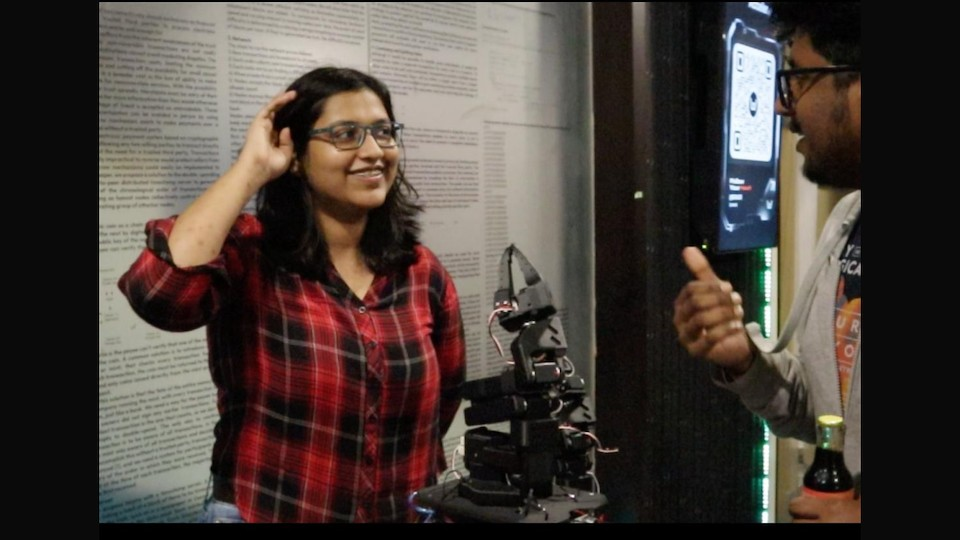
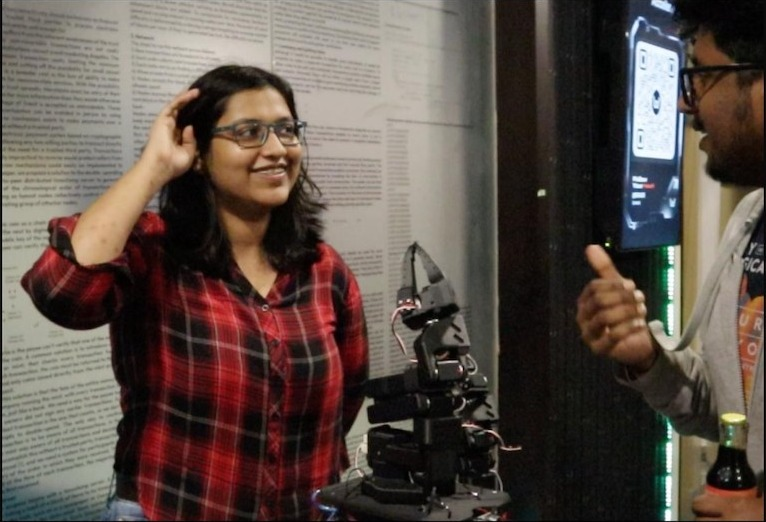
Remove black borders on hero/earthsense photos, shrink flasks and lidar images
The hero and earthsense source photos had thin/thick black
letterboxing baked into the file (not visible in the PDF version);
cropped both to their real photo content to match. Also reduced
the flasks and LiDAR tweet screenshot sizes, which were still
reading as too large.

diff --git a/index.html b/index.html
@@ -60,11 +60,6 @@
     margin: 0 auto;
     border-radius: 2px;
   }
-  .hero-crop {
-    aspect-ratio: 3 / 2;
-    object-fit: cover;
-    width: 80.7%;
-  }
   .row {
     display: flex;
     gap: 10px;
@@ -93,7 +88,7 @@
 
 <h1>Hi. I'm Surabhi</h1>
 
-<figure><img class="hero-crop" src="images/01-hero.jpg" alt="Surabhi at a demo, holding a robotic arm, talking to someone"></figure>
+<figure><img style="width: 80.7%" src="images/01-hero.jpg" alt="Surabhi at a demo, holding a robotic arm, talking to someone"></figure>
 
 <h2>School (till age 16)</h2>
 
@@ -123,7 +118,7 @@
 <p>The club ended up disbanding due to some conflict amongst the seniors and they shelved the project but I was hooked to robotics. I left the club (too much drama about leadership roles lol) and decided to learn robotics on my own. I did some courses for fundamentals, then some projects in simulation. I then wanted to build a hardware robot because that is the real deal. So I started saving up for the parts to build a cheap one.</p>
 <p>On a separate note, a project I undertook with some of my friends was the exploration of the extent to which activated carbon could be reused. Activated carbon is used in RO filters and every six months (at least in India), that filter needs to be replaced because the carbon within has been saturated with the contaminants it has adsorped. We were trying to figure out if there was a way this used carbon could be cleaned and reused. We consulted some professors from the chemical engineering department and after some discussion and research, decided to test out ultrasonication as a potential method.</p>
 
-<figure><img style="width: 78.1%" src="images/05-flasks.jpg" alt="Three flasks with activated carbon samples of different weights"></figure>
+<figure><img style="width: 58%" src="images/05-flasks.jpg" alt="Three flasks with activated carbon samples of different weights"></figure>
 
 <p>Ultrasonication is a method in which sound waves with frequencies above 20k Hz are applied to displace or agitate particles. It is often used as a method of cleaning jewelry and lab equipment and electronics. We wanted to see whether it was any good at cleaning saturated activated charcoal. We ran experiments over that semester on this and found out that ultrasonication manages to restore the soiled activated carbon to around 80% of its former adsorption capabilities. While it doesn't completely restore it, the result did mean that the activated carbon could be reused after being cleaned instead of having to be thrown away. Ultrasonication could increase the life of the activated carbon used in RO filters. We presented this work at a materials science conference the next year.</p>
 
@@ -132,7 +127,7 @@
 <h3>Second year</h3>
 <p>At this point, I was building out small, silly projects with cheap hardware to learn robotics. Some friends and I pooled in money to buy a 2D LiDAR and were trying to build a mapping robot using it.</p>
 
-<figure><img style="width: 87.7%" src="images/07-tweet-lidar.jpg" alt="Tweet: finally got my hands on a LiDAR sensor and started building the mapping robot"></figure>
+<figure><img style="width: 65%" src="images/07-tweet-lidar.jpg" alt="Tweet: finally got my hands on a LiDAR sensor and started building the mapping robot"></figure>
 
 <p>I took part in buildspace nights &amp; weekends s4 with this project. Nights and weekends was a six week remote program conducted by Farza Majeed at buildspace in which you went from an idea to a prototype/demo. Each week participants were to make progress on their projects and share those. I didn't end up following through on this project though.</p>
 <p>However, I tweeted about the project progress and this led me to my first robotics internship at Peppermint Robotics.</p>
